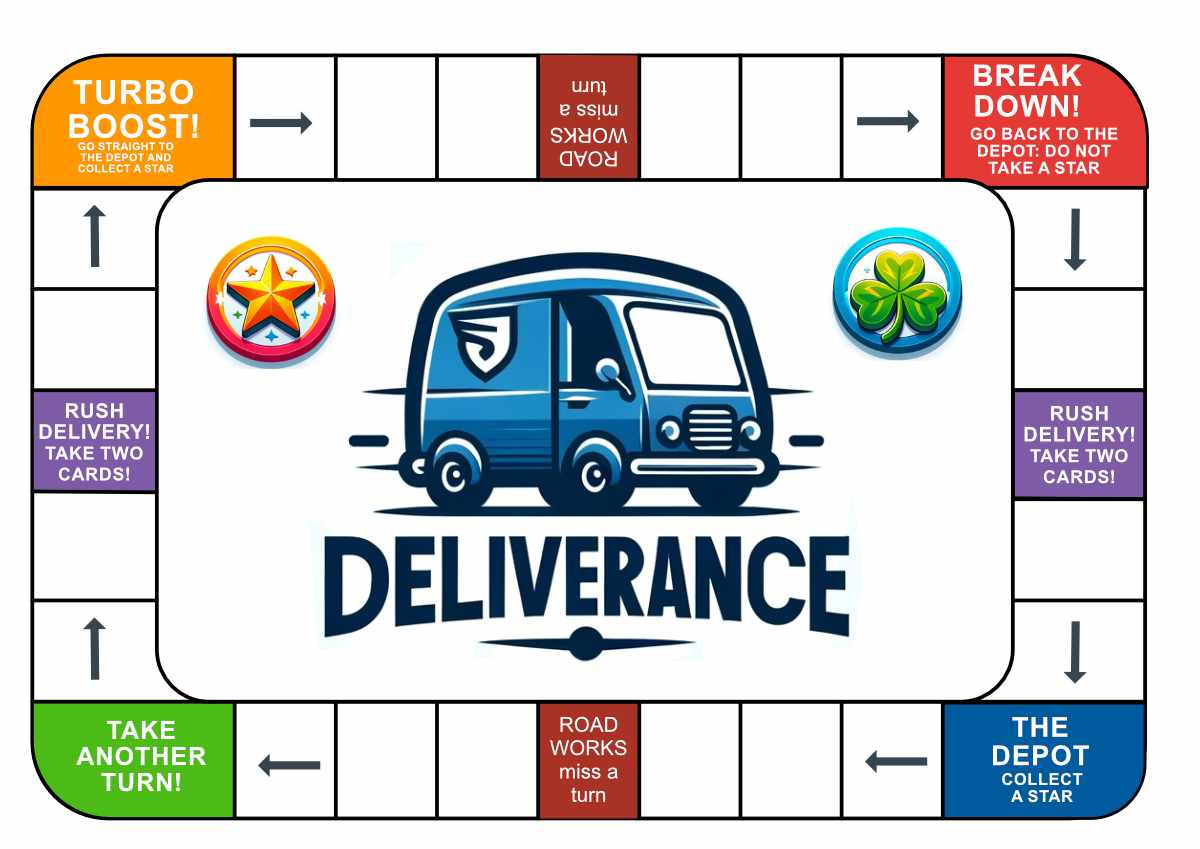
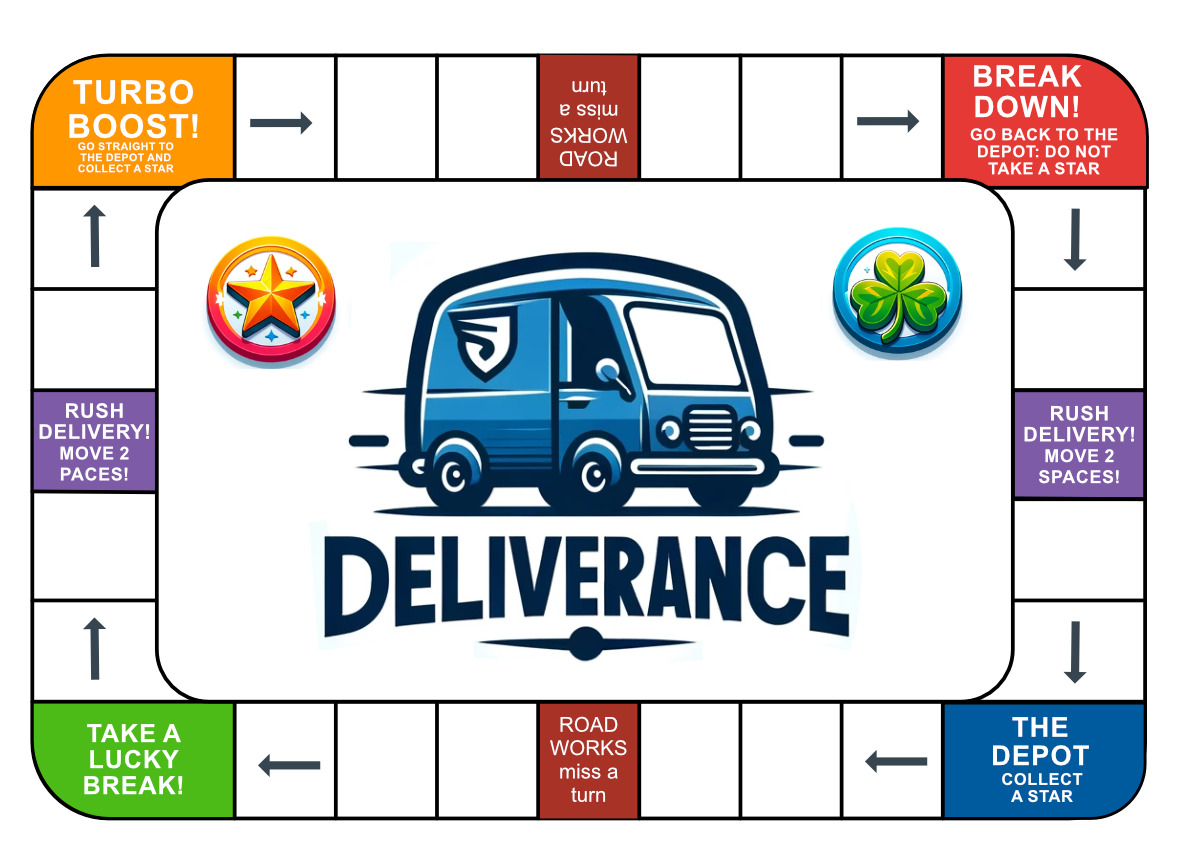
Board and Rules tweaks

diff --git a/data/rules.md b/data/rules.md
@@ -9,14 +9,16 @@ Experience all the thrills of being a delivery driver, battling with traffic, cu
 * Each player starts at the Depot on the game board.
 * Each player throws one six sided dice, the highest throw goes first.
 * On their turn, each player throws the dice, and moves forward that number of spaces.
-* The player then takes a card, any penalty or bous is applied.
-* If players are told to go back or forward a number of spaces, any further penalty or bonus is also applied.
+* The player then takes a card, any penalty or bonus is applied. Only take one card per turn, unless a card says otherwise.
+* If players are told to go back or forward a number of spaces, they also gain any benefit or penalty from the space they land on.
 * If a player is told to take another turn, they do so before anyone else plays. 
-* If the player has gone forward round the board and reached the Depot, they collect another star!
+* If the player has gone forward round the board and reaches r passes the Depot, they collect another star!
 * If you are unlucky, you may lose a star, or have to go back to the Depot without collecting a star.
-* Players may gain “Lucky Break” tokens, which can be used once each at any time to avoid any one penalty, or to re-roll the dice if you get a result you do not want. 
+* Players may gain “Lucky Break” tokens, which can be used once each at any time to avoid any one penalty.
+* Lucky Break tokens *cannot* be used if a card says you use a Lucky Break.
 * Hand your "Lucky Break" tokens back to the bank once they have been played. Use them wisely!
-* If a card says you lose a "Lucky Break" or a Star but have none left to lose, they miss a turn instead. 
+* If a card says you lose a "Lucky Break" or a Star but have none left to lose, miss a turn instead. 
 * If there are no other players to take a star or "Lucky Break" from, you can take one from the bank instead.
 * The winner is the first player to collect five stars.
+* If the game ends early, the winner is the player with the most Stars, or in case of a tie, the one with most Lucky Breaks.
 * For added excitement, see the optional "Special Delivery" rules!
